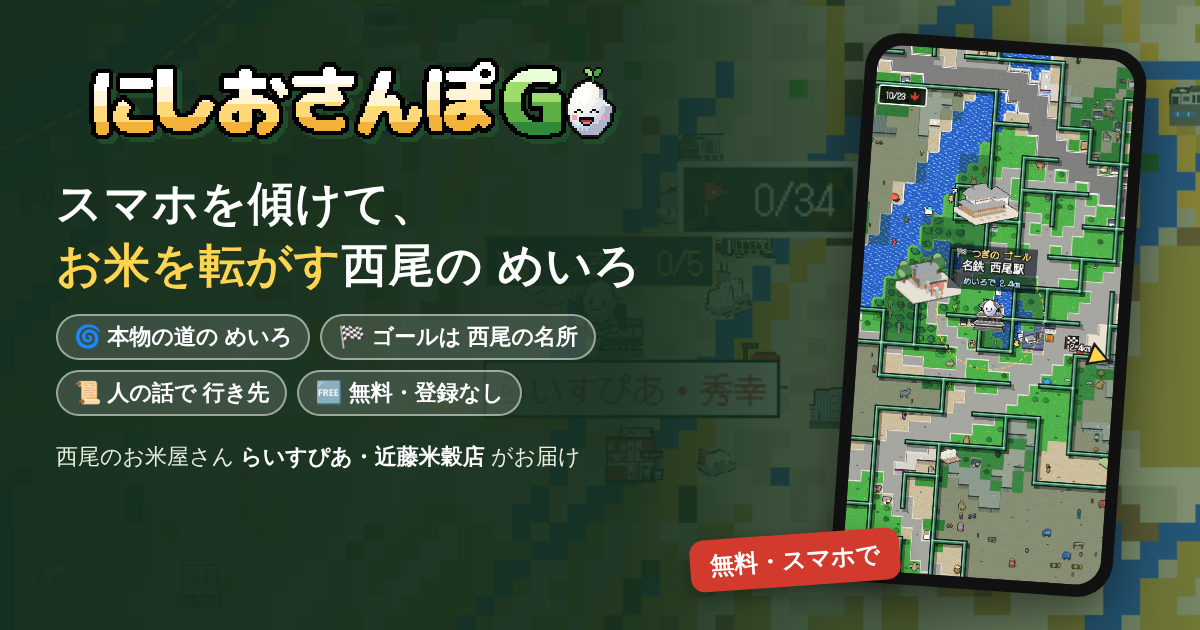
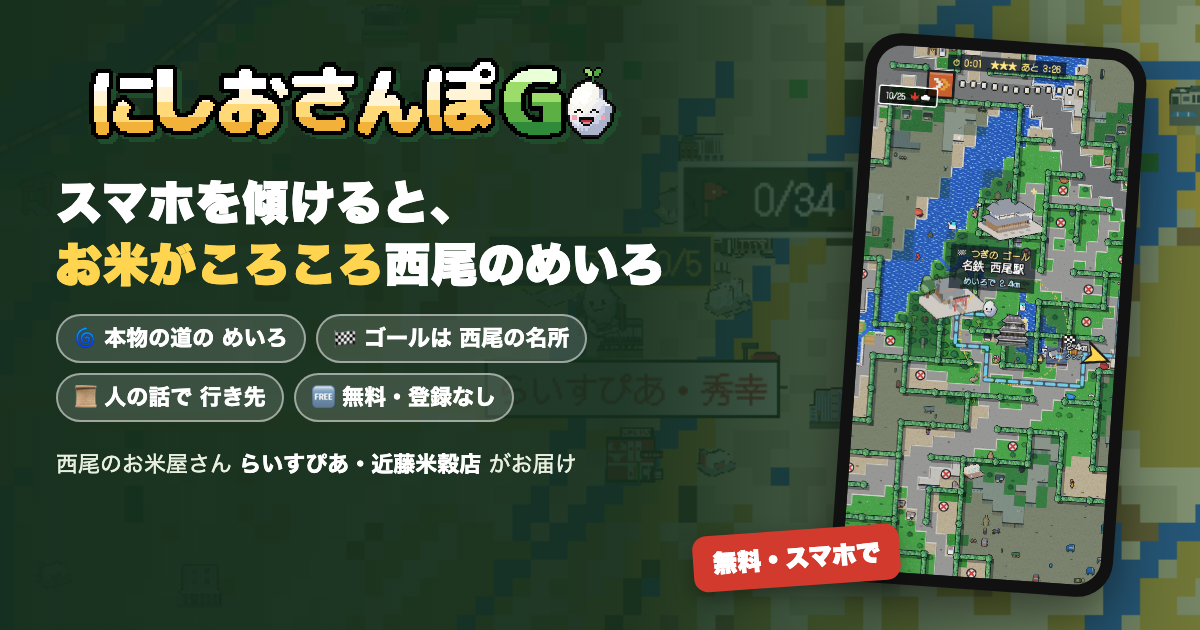
にしおさんぽGO：「お米を転がす」を「お米が ころころ」に（食べ物を粗末にする印象を避ける・2026-10-24の店主決定）
画面の文・題名・説明・共有画像（ogp.png）・ricepia.jp トップ欄の元ファイル・広告と宣伝動画の文を直す。
共有画像は夜に作っても昼の画面になるよう、撮る時刻を正午に固定。

Changed region(s): [[0.555, 0.0603, 0.9558, 0.9349], [0.0308, 0.4825, 0.4933, 0.754], [0.0308, 0.2714, 0.555, 0.4825]]

diff --git a/nishio-go.html b/nishio-go.html
@@ -3,8 +3,8 @@
 <head>
 <meta charset="UTF-8"/>
 <meta name="viewport" content="width=device-width, initial-scale=1.0, maximum-scale=1.0, viewport-fit=cover"/>
-<title>にしおさんぽGO｜スマホを傾けてお米を転がす、西尾の地図の迷路ゲーム - らいすぴあ</title>
-<meta name="description" content="スマホを傾けて、お米を転がすゲーム。西尾の地図ぜんぶが、本物の道でできた迷路に。ゴールは西尾城跡・岩瀬文庫などの名所で、まちの人の話で次のゴールが決まります。西尾のお米屋さん らいすぴあ がつくった、無料・登録なしのゲーム。"/>
+<title>にしおさんぽGO｜スマホを傾けるとお米がころころ進む、西尾の地図の迷路ゲーム - らいすぴあ</title>
+<meta name="description" content="スマホを傾けると、お米がころころ進むゲーム。西尾の地図ぜんぶが、本物の道でできた迷路に。ゴールは西尾城跡・岩瀬文庫などの名所で、まちの人の話で次のゴールが決まります。西尾のお米屋さん らいすぴあ がつくった、無料・登録なしのゲーム。"/>
 <meta name="theme-color" content="#2f5d3a"/>
 <link rel="canonical" href="https://go.ricepia.jp/nishio-go.html"/>
 <link rel="manifest" href="nishio-go.webmanifest"/>
@@ -18,7 +18,7 @@
  ],
  "name": "にしおさんぽGO",
  "url": "https://go.ricepia.jp/nishio-go.html",
- "description": "スマホを傾けて、お米を転がすゲーム。西尾の地図ぜんぶが、本物の道でできた迷路に。ゴールは西尾の名所。位置情報を使って実際に西尾を歩く「あるいて遊ぶ」もあります。",
+ "description": "スマホを傾けると、お米がころころ進むゲーム。西尾の地図ぜんぶが、本物の道でできた迷路に。ゴールは西尾の名所。位置情報を使って実際に西尾を歩く「あるいて遊ぶ」もあります。",
  "image": "https://go.ricepia.jp/nishio-go/ogp.png",
  "inLanguage": "ja",
  "genre": [
@@ -59,13 +59,13 @@
 <meta property="og:type" content="website"/>
 <meta property="og:locale" content="ja_JP"/>
 <meta property="og:site_name" content="らいすぴあ（近藤米穀店）"/>
-<meta property="og:title" content="にしおさんぽGO - 傾けてお米を転がす、西尾の地図の迷路"/>
-<meta property="og:description" content="スマホを傾けて、お米を転がす。西尾の地図ぜんぶが、本物の道でできた迷路に。ゴールは西尾の名所。西尾のお米屋さんがつくった、無料・登録なしのゲーム。スマホのブラウザですぐ遊べます。"/>
+<meta property="og:title" content="にしおさんぽGO - 傾けるとお米がころころ、西尾の地図の迷路"/>
+<meta property="og:description" content="スマホを傾けると、お米がころころ。西尾の地図ぜんぶが、本物の道でできた迷路に。ゴールは西尾の名所。西尾のお米屋さんがつくった、無料・登録なしのゲーム。スマホのブラウザですぐ遊べます。"/>
 <meta property="og:url" content="https://go.ricepia.jp/nishio-go.html"/>
 <meta property="og:image" content="https://go.ricepia.jp/nishio-go/ogp.png"/>
 <meta property="og:image:width" content="1200"/>
 <meta property="og:image:height" content="630"/>
-<meta property="og:image:alt" content="にしおさんぽGO：スマホを傾けて、お米を転がす西尾の地図の迷路ゲーム"/>
+<meta property="og:image:alt" content="にしおさんぽGO：スマホを傾けるとお米がころころ進む、西尾の地図の迷路ゲーム"/>
 <meta name="twitter:card" content="summary_large_image"/>
 <meta name="twitter:image" content="https://go.ricepia.jp/nishio-go/ogp.png"/>
 <link rel="stylesheet" href="https://unpkg.com/leaflet@1.9.4/dist/leaflet.css" integrity="sha256-p4NxAoJBhIIN+hmNHrzRCf9tD/miZyoHS5obTRR9BMY=" crossorigin=""/>
@@ -239,7 +239,7 @@
       <button type="button" data-mode="demo" aria-pressed="false">🎮 操作して移動</button>
     </div>
     <div class="row">
-      <span><b>❓ あそびかた</b><small>傾けて お米を転がし、めいろを ぬけて 西尾の名所へ。はじめに出た 説明を もう一度 見られます。</small></span>
+      <span><b>❓ あそびかた</b><small>傾けると お米が ころころ。めいろを ぬけて 西尾の名所へ。はじめに出た 説明を もう一度 見られます。</small></span>
       <button type="button" id="howtoOpen" class="btn" style="flex:none">見る</button>
     </div>
     <label class="row">
@@ -328,7 +328,7 @@
     <p class="player-count" id="playerCount" hidden></p>
     <p class="player-count voice-intro" id="voiceIntro" hidden></p>
     <canvas class="intro-roll" id="introHero" width="160" height="72" role="img" aria-label="お米が 台地から 坂を ころころ転がり下りて、田んぼの あぜ道で にっこり"></canvas>
-    <p class="tagline">お米を ころころ 転がして、西尾をめぐろう</p>
+    <p class="tagline">お米が ころころ、西尾をめぐろう</p>
     <p class="pitch"><b>🍚 スマホを傾けると、お米が ころころ転がる。</b><br/>🌀 西尾の地図ぜんぶが、本物の道で できた 迷路に。行き止まりを よけて、名所から名所へ ころがそう。<br/>坂は 本当の西尾の高低差で、ひとりでに転がり下ります。西尾の名所に転がりこむとポイント。たからばこと、西尾ならではのドット絵が集まります。まちの人の話が、次の行き先をすすめてくれます。</p>
     <p class="mode-q">遊びかたをえらんでください（あとから切り替えられます）</p>
     <button type="button" class="btn big mode-pick meiro" id="meiroBtn"><span class="mp-t">🌀 傾けて めいろ</span><small class="mp-s">スマホを傾けて、お米を 名所へ。家で遊べる</small><small>西尾の本物の地図ぜんぶが 迷路に。スマホを傾けて、お米を 名所から名所へ ころがそう。家からでも西尾めぐり</small></button>
@@ -379,7 +379,7 @@
       <li><span class="hi" aria-hidden="true">⭐</span><span><b>着いたら ポイントと ドット絵</b><small>まちの人の 話で、つぎの ゴールが きまる</small></span></li>
     </ol>
     <p class="howto-btns"><span>🌏 せかいちず</span><span>🔍 地図の大きさ</span><span>🌀 ステージの めいろ</span></p>
-    <button type="button" class="btn big" id="howtoOk">わかった！ 転がしてみる</button>
+    <button type="button" class="btn big" id="howtoOk">わかった！ 傾けてみる</button>
   </div>
 </div>
 

diff --git a/tools/make-promo.js b/tools/make-promo.js
@@ -34,7 +34,7 @@ async function endCard(page) {
     const el = document.createElement('div');
     el.style.cssText = 'position:fixed;inset:0;z-index:6000;background:linear-gradient(#9fd6ff,#e8f6ff 60%,#cfae4a 60%);display:flex;flex-direction:column;align-items:center;justify-content:center;gap:18px;font-family:"DotGothic16",sans-serif;text-align:center;padding:20px';
     el.innerHTML = `<img src="nishio-go/logo.svg" style="width:300px;height:auto" alt="">
-      <div style="font-size:24px;font-weight:bold;background:#fff;border:3px solid #000;border-radius:10px;padding:12px 16px">スマホを傾けて<br>お米を転がす 西尾の めいろ</div>
+      <div style="font-size:24px;font-weight:bold;background:#fff;border:3px solid #000;border-radius:10px;padding:12px 16px">スマホを傾けると<br>お米が ころころ 西尾の めいろ</div>
       <div style="font-size:18px;background:rgba(0,0,0,.8);color:#fff;border-radius:8px;padding:8px 14px">無料・登録なしで、すぐ遊べる</div>
       <div style="font-size:30px;font-weight:bold;color:#1f5a25;background:#fff;border-radius:8px;padding:6px 14px">go.ricepia.jp</div>
       <div style="font-size:15px;background:rgba(0,0,0,.75);color:#fff;border-radius:6px;padding:6px 10px">西尾のお米屋さん 近藤米穀店・らいすぴあ</div>`;
@@ -71,7 +71,7 @@ async function endCard(page) {
   fs.rmSync(frames, { recursive: true, force: true });
   const stop = recorder = await recordPage(page, frames);
   // 1) はじめの画面（お米が 台地の坂を ころころ転がり下りる アニメーション）
-  await caption(page, 'スマホを傾けて<br>お米を転がす', '西尾のお米屋さんがつくったゲーム', 'bottom'); await sleep(3500);
+  await caption(page, 'スマホを傾けると<br>お米が ころころ', '西尾のお米屋さんがつくったゲーム', 'bottom'); await sleep(3500);
   await shot('01-intro');
   // 2) 「🌀 傾けて めいろ」：西尾の地図ぜんぶが、本物の道で できた めいろ（西尾城跡のあたり）。矢印キーは 傾けたのと 同じ
   await caption(page, '');
@@ -135,7 +135,7 @@ async function endCard(page) {
     if (w / h > 1.4) {   // 横長：左に文、右にゲーム画面
       const ph = Math.round(h * 0.9), fs = Math.round(h / 11);
       return `<img src="${logoUrl}" style="position:absolute;left:${w * 0.04}px;top:${h * 0.06}px;width:${w * 0.45}px">
-        <div style="position:absolute;left:${w * 0.04}px;top:${h * 0.27}px;font-size:${fs}px;font-weight:bold;line-height:1.35;text-shadow:0 0 8px #fff">傾けて お米を転がす<br>西尾の めいろ</div>
+        <div style="position:absolute;left:${w * 0.04}px;top:${h * 0.27}px;font-size:${fs}px;font-weight:bold;line-height:1.35;text-shadow:0 0 8px #fff">傾けると お米が ころころ<br>西尾の めいろ</div>
         <div style="position:absolute;left:${w * 0.04}px;top:${h * 0.56}px">${pill('本物の道で できた めいろを、名所へ', Math.round(fs / 2))}</div>
         <div style="position:absolute;left:${w * 0.04}px;top:${h * 0.69}px">${pill('無料・登録なし ／ go.ricepia.jp', Math.round(fs / 2))}</div>
         <div style="position:absolute;right:${w * 0.05}px;top:${h * 0.05}px">${phone('02-maze.png', ph)}</div>${foot(Math.round(fs / 2.3), Math.round(h * 0.09))}`;
@@ -144,7 +144,7 @@ async function endCard(page) {
     const fs = Math.round(w / 14), logoTop = h * 0.035, headTop = logoTop + w * 0.13, pill1 = headTop + w * 0.21, pill2 = pill1 + w * 0.075;
     const phoneTop = pill2 + w * 0.085, ph = Math.round(h * 0.9 - phoneTop);
     return `<div style="position:absolute;left:0;right:0;top:${logoTop}px;text-align:center"><img src="${logoUrl}" style="width:${w * 0.7}px"></div>
-      <div style="position:absolute;left:0;right:0;top:${headTop}px;text-align:center;font-size:${fs}px;font-weight:bold;line-height:1.3;text-shadow:0 0 8px #fff">傾けて お米を転がす<br>西尾の めいろ</div>
+      <div style="position:absolute;left:0;right:0;top:${headTop}px;text-align:center;font-size:${fs}px;font-weight:bold;line-height:1.3;text-shadow:0 0 8px #fff">傾けると お米が ころころ<br>西尾の めいろ</div>
       <div style="position:absolute;left:0;right:0;top:${pill1}px;text-align:center">${pill('本物の道で できた めいろを、名所へ', Math.round(fs / 2.3))}</div>
       <div style="position:absolute;left:0;right:0;top:${pill2}px;text-align:center">${pill('無料・登録なし ／ go.ricepia.jp', Math.round(fs / 2.3))}</div>
       <div style="position:absolute;left:0;right:0;top:${phoneTop}px;display:flex;justify-content:center;gap:${w * 0.03}px">${phone('02-maze.png', ph)}${h / w > 1.1 ? '' : phone('04-goal.png', ph)}</div>${foot(Math.round(fs / 2.4), Math.round(h * 0.075))}`;

diff --git a/nishio-go/game.js b/nishio-go/game.js
@@ -2481,7 +2481,7 @@ function renderUps() {
   $('upBox').hidden = !demo;
   if (!demo) return;
   const lv = levelOf(S.total), perH = Math.floor(IDLE.ptPerHour(lv) * (1 + 0.5 * upLv('bag')));
-  $('upNote').textContent = `🍚 自分で転がす：いちばんたくさん集まり、たからばこ（ドット絵）を自由に探せます。🏠 るすばん：閉じている間も 1時間に約${perH}pt（最大${idleCapH()}時間）と、まちメモ・ドット絵を持ち帰ります。`;
+  $('upNote').textContent = `🍚 自分で遊ぶ：いちばんたくさん集まり、たからばこ（ドット絵）を自由に探せます。🏠 るすばん：閉じている間も 1時間に約${perH}pt（最大${idleCapH()}時間）と、まちメモ・ドット絵を持ち帰ります。`;
   $('upList').innerHTML = IDLE.ups.map(u => {
     const lv = upLv(u.id), max = lv >= u.cost.length, cost = u.cost[lv];
     if (simple()) return `<li class="up-pic" title="${esc(u.desc)}"><span class="ico">${UP_PI[u.id] ? `<img class="art" src="nishio-go/art/up-${u.id}.png" alt="${esc(u.name)}" width="48" height="48"/>` : PI('up', u.name)}</span><span class="main"><b>${esc(u.name)}</b><span class="lvdots">${u.cost.map((c, i) => `<i class="${i < lv ? 'on' : ''}"></i>`).join('')}</span></span>`
@@ -3165,7 +3165,7 @@ function switchMode(isDemo) {
   if (isDemo === demo) return;
   setMode(isDemo);
   track('mode_switch', { mode: demo ? 'play' : 'walk' });
-  toast(demo ? `🎮 操作して移動にしました（${document.body.classList.contains('px') ? 'スマホを傾けて 迷路を 転がします' : '地図をタップした所へ移動します'}。記録は別です）`
+  toast(demo ? `🎮 操作して移動にしました（${document.body.classList.contains('px') ? 'スマホを傾けると お米が 迷路を ころころ進みます' : '地図をタップした所へ移動します'}。記録は別です）`
     : '🚶 あるいて移動にしました（位置情報を使います）');
 }
 document.querySelectorAll('.mode-sw [data-mode]').forEach(b => b.addEventListener('click', () => switchMode(b.dataset.mode === 'demo')));

diff --git a/tools/make-reel.js b/tools/make-reel.js
@@ -34,7 +34,7 @@ async function endCard(page) {
     const el = document.createElement('div');
     el.style.cssText = 'position:fixed;inset:0;z-index:6000;background:linear-gradient(#9fd6ff,#e8f6ff 58%,#86b54c 58%);display:flex;flex-direction:column;align-items:center;justify-content:flex-start;padding-top:120px;gap:16px;font-family:"DotGothic16",sans-serif;text-align:center';
     el.innerHTML = `<img src="nishio-go/logo.svg" style="width:290px;height:auto" alt="">
-      <div style="font-size:23px;font-weight:bold;background:#fff;border:3px solid #000;border-radius:10px;padding:10px 14px">スマホを傾けて<br>お米を転がす 西尾の めいろ</div>
+      <div style="font-size:23px;font-weight:bold;background:#fff;border:3px solid #000;border-radius:10px;padding:10px 14px">スマホを傾けると<br>お米が ころころ 西尾の めいろ</div>
       <div style="font-size:17px;background:rgba(0,0,0,.8);color:#fff;border-radius:8px;padding:7px 12px">無料・登録なし／スマホでそのまま</div>
       <div style="font-size:30px;font-weight:bold;color:#1f5a25;background:#fff;border-radius:8px;padding:6px 14px">go.ricepia.jp</div>`;
     document.body.appendChild(el);
@@ -69,7 +69,7 @@ async function endCard(page) {
   });
   const roll = async seq => { for (const [k, ms] of seq) { await closeAll(); await page.keyboard.down(k); await sleep(ms); await page.keyboard.up(k); await sleep(200); } await closeAll(); };   // まちの人の 呼びとめ（会話の 窓）は とじてから 転がす
   // 1) はじめの画面（お米が 台地の坂を ころころ転がり下りる）
-  await caption(page, 'スマホを傾けて<br>お米を転がす', 'にしおさんぽGO', 'mid'); await sleep(2800); mark('intro');
+  await caption(page, 'スマホを傾けると<br>お米が ころころ', 'にしおさんぽGO', 'mid'); await sleep(2800); mark('intro');
   await caption(page, '');
   await page.click('#meiroBtn'); await sleep(600);
   // 2) 西尾の地図ぜんぶが めいろ（西尾市歴史公園＝西尾城跡のあたり）

diff --git a/nishio-go/pixel.js b/nishio-go/pixel.js
@@ -6635,14 +6635,14 @@ window.addEventListener('deviceorientation', e => {
   tiltG.x += (dz(c(lr - tiltG.base.lr)) - tiltG.x) * k; tiltG.y += (dz(c(fb - tiltG.base.fb)) - tiltG.y) * k;
   if (!G.demo && rollOn && !tiltG.walkTold && Math.hypot(tiltG.x, tiltG.y) > 0.7 && active) {   // あるいて移動で傾けたとき：1回だけ教える
     tiltG.walkTold = true;
-    G.toast('🍚 あるいて移動では、歩いた所へ お米が転がるよ。傾けて転がすのは「操作して遊ぶ」で');
+    G.toast('🍚 あるいて移動では、歩いた所へ お米が転がるよ。傾けて遊ぶのは「操作して遊ぶ」で');
   }
 });
 function tiltReset() { tiltG.base = null; tiltG.n = 0; tiltG.x = tiltG.y = 0; }
 function tiltAsk() {   // iPhone：傾きを使う許可（画面をさわったときにしか聞けない）
   if (tiltG.asked || !(window.DeviceOrientationEvent && typeof DeviceOrientationEvent.requestPermission === 'function')) return;
   tiltG.asked = true;
-  DeviceOrientationEvent.requestPermission().then(r => { if (r !== 'granted') G.toast('📱 傾きの許可がないので、地図を タップした所へ 転がしてね（矢印キーでも）'); else tiltReset(); }).catch(() => { tiltG.asked = false; });
+  DeviceOrientationEvent.requestPermission().then(r => { if (r !== 'granted') G.toast('📱 傾きの許可がないので、地図を タップした所へ お米が進むよ（矢印キーでも）'); else tiltReset(); }).catch(() => { tiltG.asked = false; });
 }
 ['click', 'touchend'].forEach(ev => document.addEventListener(ev, () => { if (rollOn) tiltAsk(); }, { capture: true, passive: true }));
 document.addEventListener('visibilitychange', () => { if (!document.hidden) tiltReset(); });

diff --git a/tools/make-ogp.js b/tools/make-ogp.js
@@ -12,6 +12,7 @@ const PORT = 8898, URL = `http://localhost:${PORT}/nishio-go.html`, OUT = path.j
   const browser = await chromium.launch(process.env.CHROMIUM ? { executablePath: process.env.CHROMIUM } : {});
   const ctx = await browser.newContext({ viewport: { width: 390, height: 780 }, deviceScaleFactor: 2 });
   await ctx.addInitScript(() => { localStorage.setItem('nsg_started', 'true'); localStorage.setItem('nsg_view', 'px'); localStorage.setItem('nsg_world_on', '1'); localStorage.setItem('nsg_mode', '"demo"'); localStorage.setItem('nsg_bgm', 'false'); localStorage.setItem('nsg_howto', '1'); });
+  await ctx.clock.setFixedTime(new Date('2026-10-25T12:00:00+09:00'));   // ゲームは本当の時刻で空の明るさが変わる。夜に作っても昼の画面になるよう、正午に固定
   const page = await ctx.newPage();
   if (process.env.LEAFLET_DIR) await page.route('https://unpkg.com/**', r => {
     const f = r.request().url().endsWith('.css') ? 'leaflet.css' : 'leaflet.js';
@@ -54,7 +55,7 @@ const PORT = 8898, URL = `http://localhost:${PORT}/nishio-go.html`, OUT = path.j
     <div class="bg"></div><div class="shade"></div>
     <div class="left">
       <img class="logo" src="${uri(logo, 'image/svg+xml')}"/>
-      <h1>スマホを傾けて、<br/><em>お米を転がす</em>西尾の めいろ</h1>
+      <h1>スマホを傾けると、<br/><em>お米がころころ</em>西尾のめいろ</h1>
       <ul><li>🌀 本物の道の めいろ</li><li>🏁 ゴールは 西尾の名所</li><li>📜 人の話で 行き先</li><li>🆓 無料・登録なし</li></ul>
       <p class="by">西尾のお米屋さん <b>らいすぴあ・近藤米穀店</b> がお届け</p>
     </div>

diff --git a/nishio-go/city.html b/nishio-go/city.html
@@ -106,7 +106,7 @@
   <div class="in">
     <img class="logo" src="logo.svg" alt="にしおさんぽGO" width="544" height="80"/>
     <h1>西尾市のご担当者さまへ<br/>西尾の名所を「遊んで知ってもらう」スマホのゲームの ご提案</h1>
-    <p>西尾の本物の地図ぜんぶが めいろに。スマホを傾けて お米を転がし、名所から名所へ。家からも、まちを歩いても遊べます。</p>
+    <p>西尾の本物の地図ぜんぶが めいろに。スマホを傾けると お米が ころころ、名所から名所へ。家からも、まちを歩いても遊べます。</p>
   </div>
 </header>
 <main>
@@ -137,7 +137,7 @@
     </ul>
     <h3>遊びかた</h3>
     <ul class="list">
-      <li><b>🌀 傾けて めいろ</b>：西尾の本物の道で できた めいろを、スマホを傾けて お米を転がし、名所（ゴール）へ。家からでも 西尾めぐり</li>
+      <li><b>🌀 傾けて めいろ</b>：西尾の本物の道で できた めいろを、スマホを傾けると お米が ころころ進んで、名所（ゴール）へ。家からでも 西尾めぐり</li>
       <li><b>🚶 あるいて遊ぶ</b>：位置情報を使い、実際に まちを歩いて 名所で チェックイン</li>
       <li><b>📜 まちの人の話</b>：西尾にいそうな人（ガイドさん・茶畑のおじいさん・漁師さん…）が、出典のある 西尾の話をして、次の行き先を すすめます</li>
       <li><b>🖼 西尾ドット絵帳</b>：てん茶の茶畑・一色のうなぎ・佐久島・西尾城の丑寅櫓…西尾ならではの ドット絵が あつまります</li>

diff --git a/tools/google-ads-game-campaign-2026-10.js b/tools/google-ads-game-campaign-2026-10.js
@@ -30,10 +30,10 @@ const IMAGES = [
 ];
 // 文は docs/ads-game-kit.md の1章（無料・登録なしは本当）
 // いまのゲーム（スマホを傾けて お米を転がす、西尾の地図の めいろ）に合わせた 文（2026-10。前の「歩くゲーム・おまかせ歩き」は もう ない）
-const HEADLINES = ['傾けて転がす西尾の迷路', '西尾の米屋がつくったゲーム', 'お米ころころ迷路ゲーム', '登録なしですぐ遊べる', '名所から名所へころころ'];
+const HEADLINES = ['傾けてころころ西尾の迷路', '西尾の米屋がつくったゲーム', 'お米ころころ迷路ゲーム', '登録なしですぐ遊べる', '名所から名所へころころ'];
 const DESCRIPTIONS = [
-  'スマホを傾けて、お米を転がす。西尾の地図ぜんぶが、本物の道でできた迷路に。',
-  '西尾のお米屋さんがつくった、お米を転がす迷路ゲーム。無料・登録なし',
+  'スマホを傾けると、お米がころころ。西尾の地図ぜんぶが、本物の道でできた迷路に。',
+  '西尾のお米屋さんがつくった、お米がころころ進む迷路ゲーム。無料・登録なし',
   'ゴールは西尾の名所。まちの人の話で、次のゴールが決まる。スマホですぐ遊べる。',
 ];
 const BUSINESS_NAME = '近藤米穀店 らいすぴあ';

diff --git a/ricepia-jp/index.html b/ricepia-jp/index.html
@@ -4556,7 +4556,7 @@
   <div class="ng-inner">
     <img class="ng-logo" src="https://go.ricepia.jp/nishio-go/logo.svg" alt="にしおさんぽGO" width="544" height="80" loading="lazy">
     <span class="ng-tag">🧪 試作版</span>
-    <h2 id="nishio-go-title" class="sec-title">スマホを傾けて、<br><span class="em">お米を転がす</span>西尾の めいろ。</h2>
+    <h2 id="nishio-go-title" class="sec-title">スマホを傾けると、<br><span class="em">お米が ころころ</span>西尾の めいろ。</h2>
     <p class="sec-lead">主人公は、ひと粒のお米。西尾の地図ぜんぶが、本物の道で できた 迷路に なりました。スマホを傾けて、行き止まりを よけながら ころころ。ゴールは 西尾城跡・岩瀬文庫・佐久島…西尾の名所で、次の ゴールは まちの人の話で 決まります。らいすぴあ も名所のひとつです。坂は本当の西尾の高低差で、ひとりでに転がり下ります。</p>
     <ul class="ng-points">
       <li>🌀 地図ぜんぶが めいろ</li>

diff --git a/ricepia-jp/game-section.html b/ricepia-jp/game-section.html
@@ -24,7 +24,7 @@
   <div class="ng-inner">
     <img class="ng-logo" src="https://go.ricepia.jp/nishio-go/logo.svg" alt="にしおさんぽGO" width="544" height="80" loading="lazy">
     <span class="ng-tag">🧪 試作版</span>
-    <h2 id="nishio-go-title" class="sec-title">スマホを傾けて、<br><span class="em">お米を転がす</span>西尾の めいろ。</h2>
+    <h2 id="nishio-go-title" class="sec-title">スマホを傾けると、<br><span class="em">お米が ころころ</span>西尾の めいろ。</h2>
     <p class="sec-lead">主人公は、ひと粒のお米。西尾の地図ぜんぶが、本物の道で できた 迷路に なりました。スマホを傾けて、行き止まりを よけながら ころころ。ゴールは 西尾城跡・岩瀬文庫・佐久島…西尾の名所で、次の ゴールは まちの人の話で 決まります。らいすぴあ も名所のひとつです。坂は本当の西尾の高低差で、ひとりでに転がり下ります。</p>
     <ul class="ng-points">
       <li>🌀 地図ぜんぶが めいろ</li>
